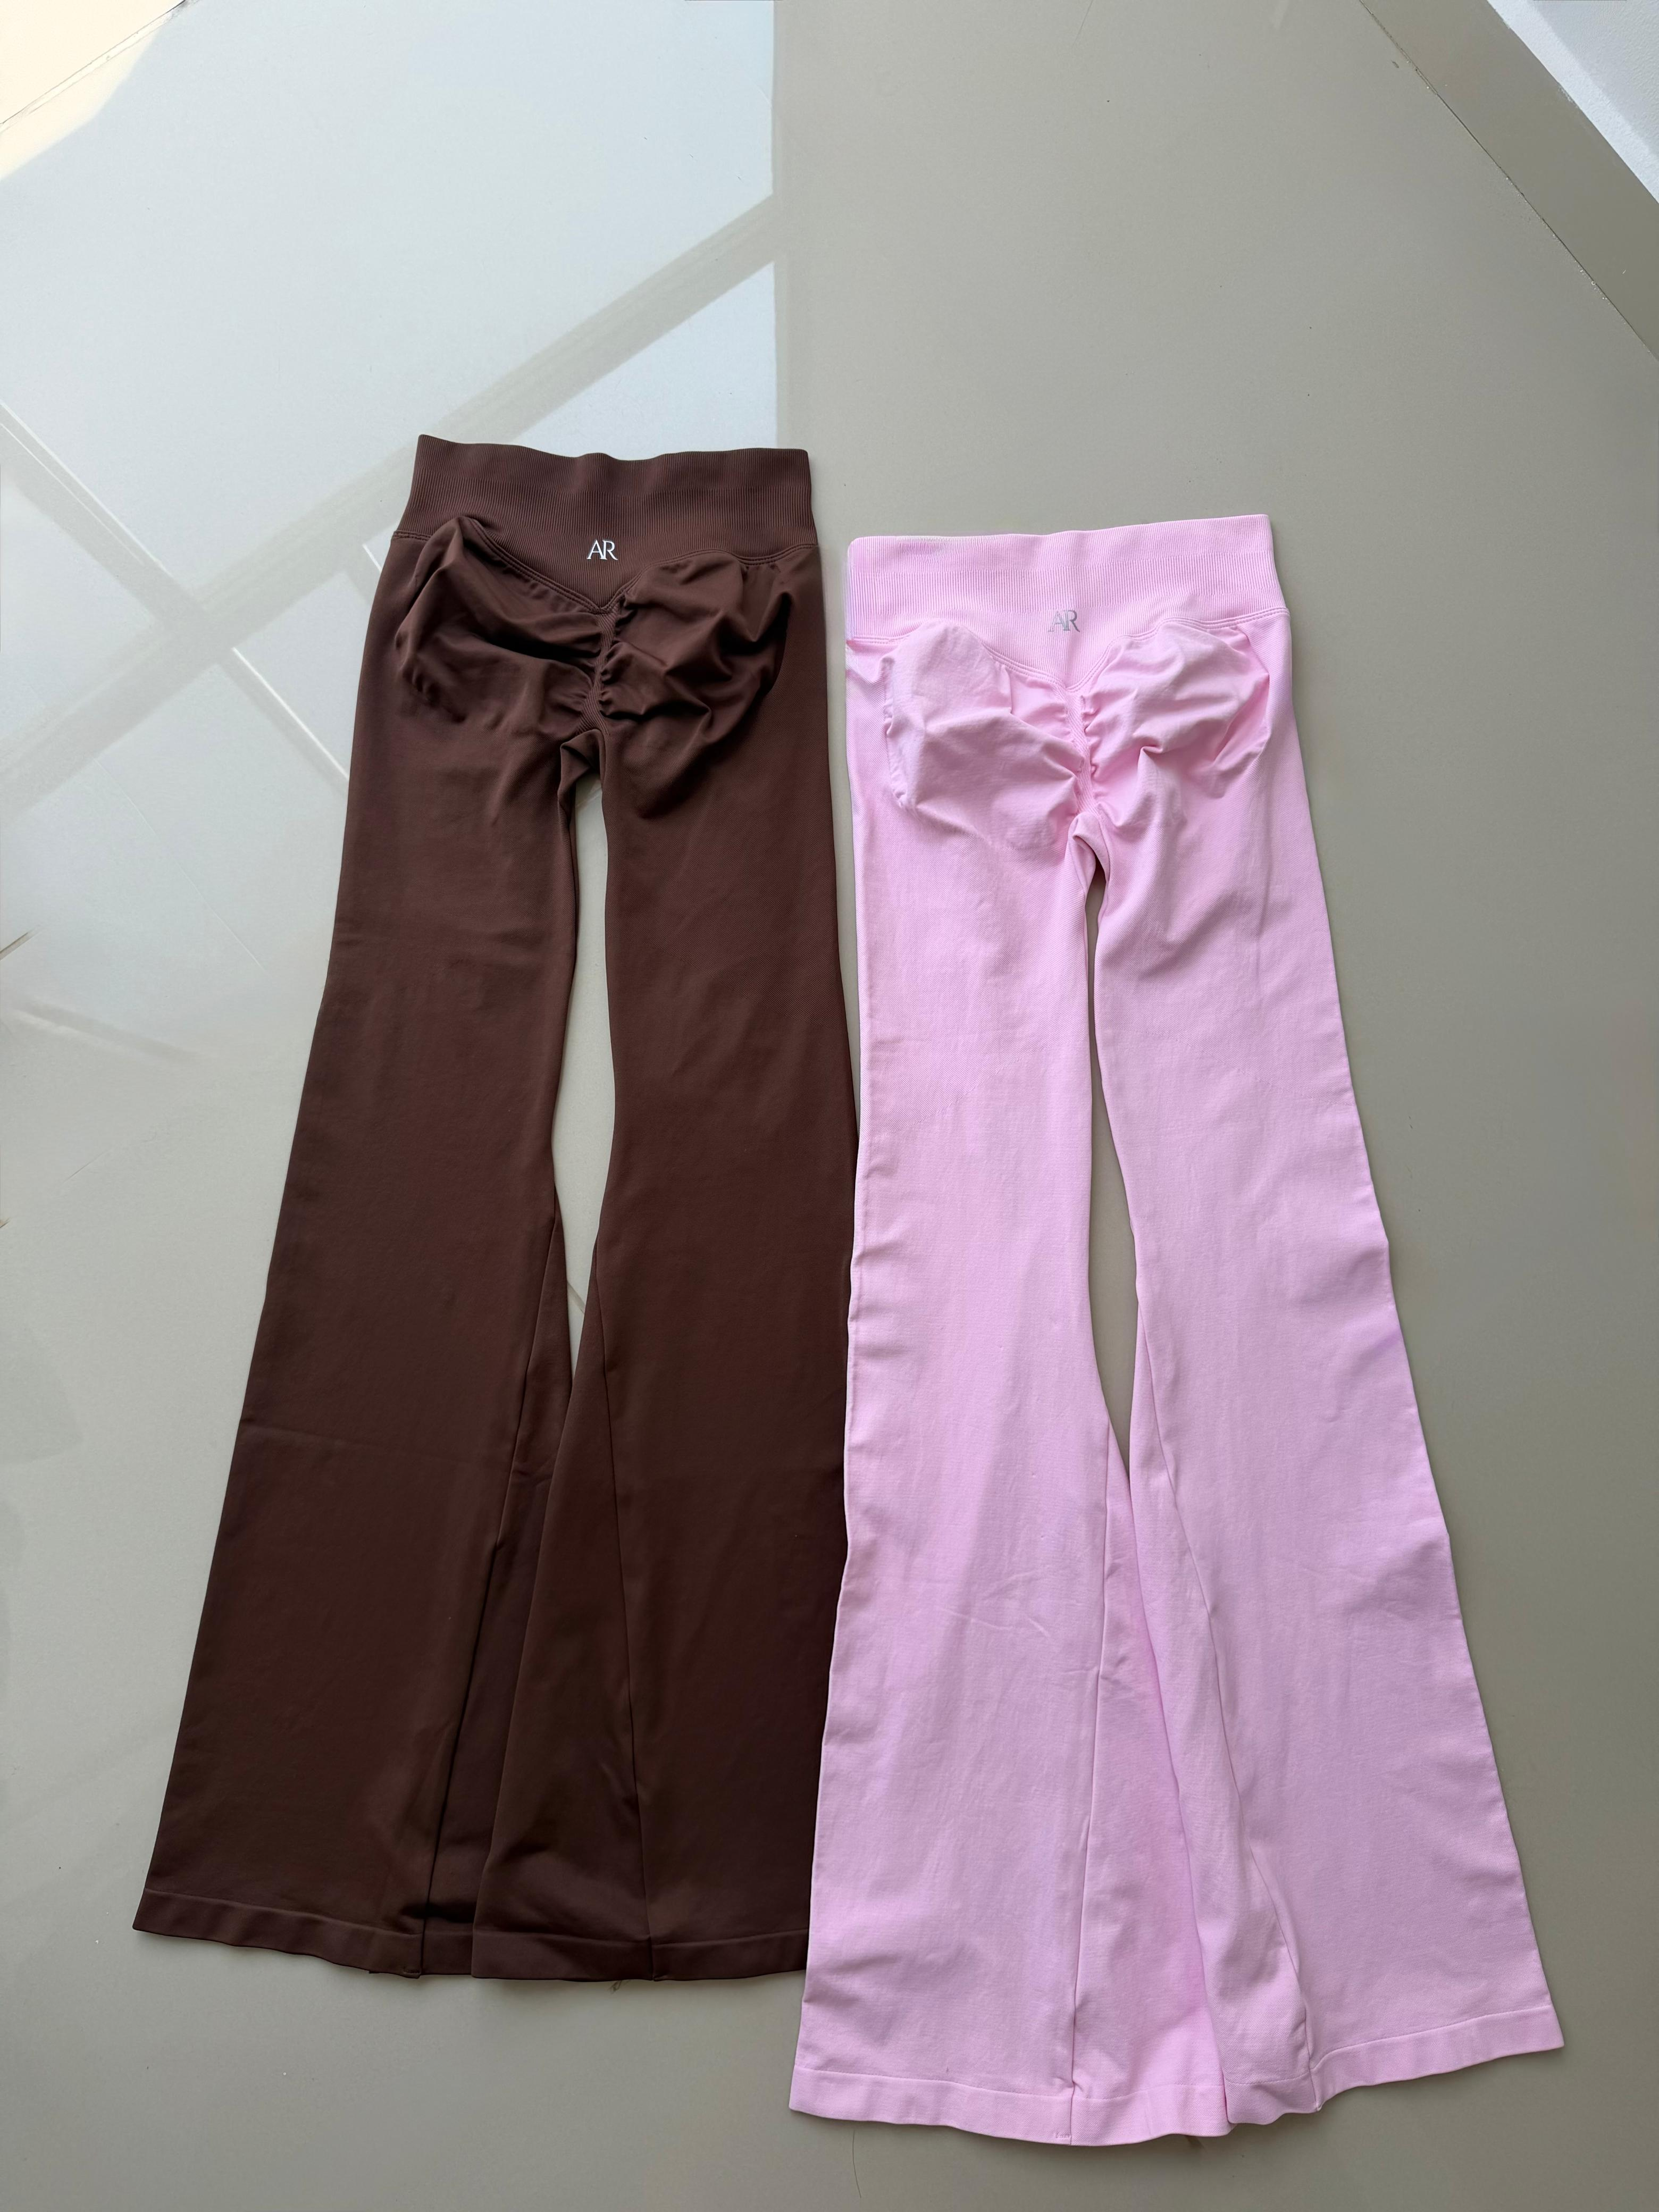
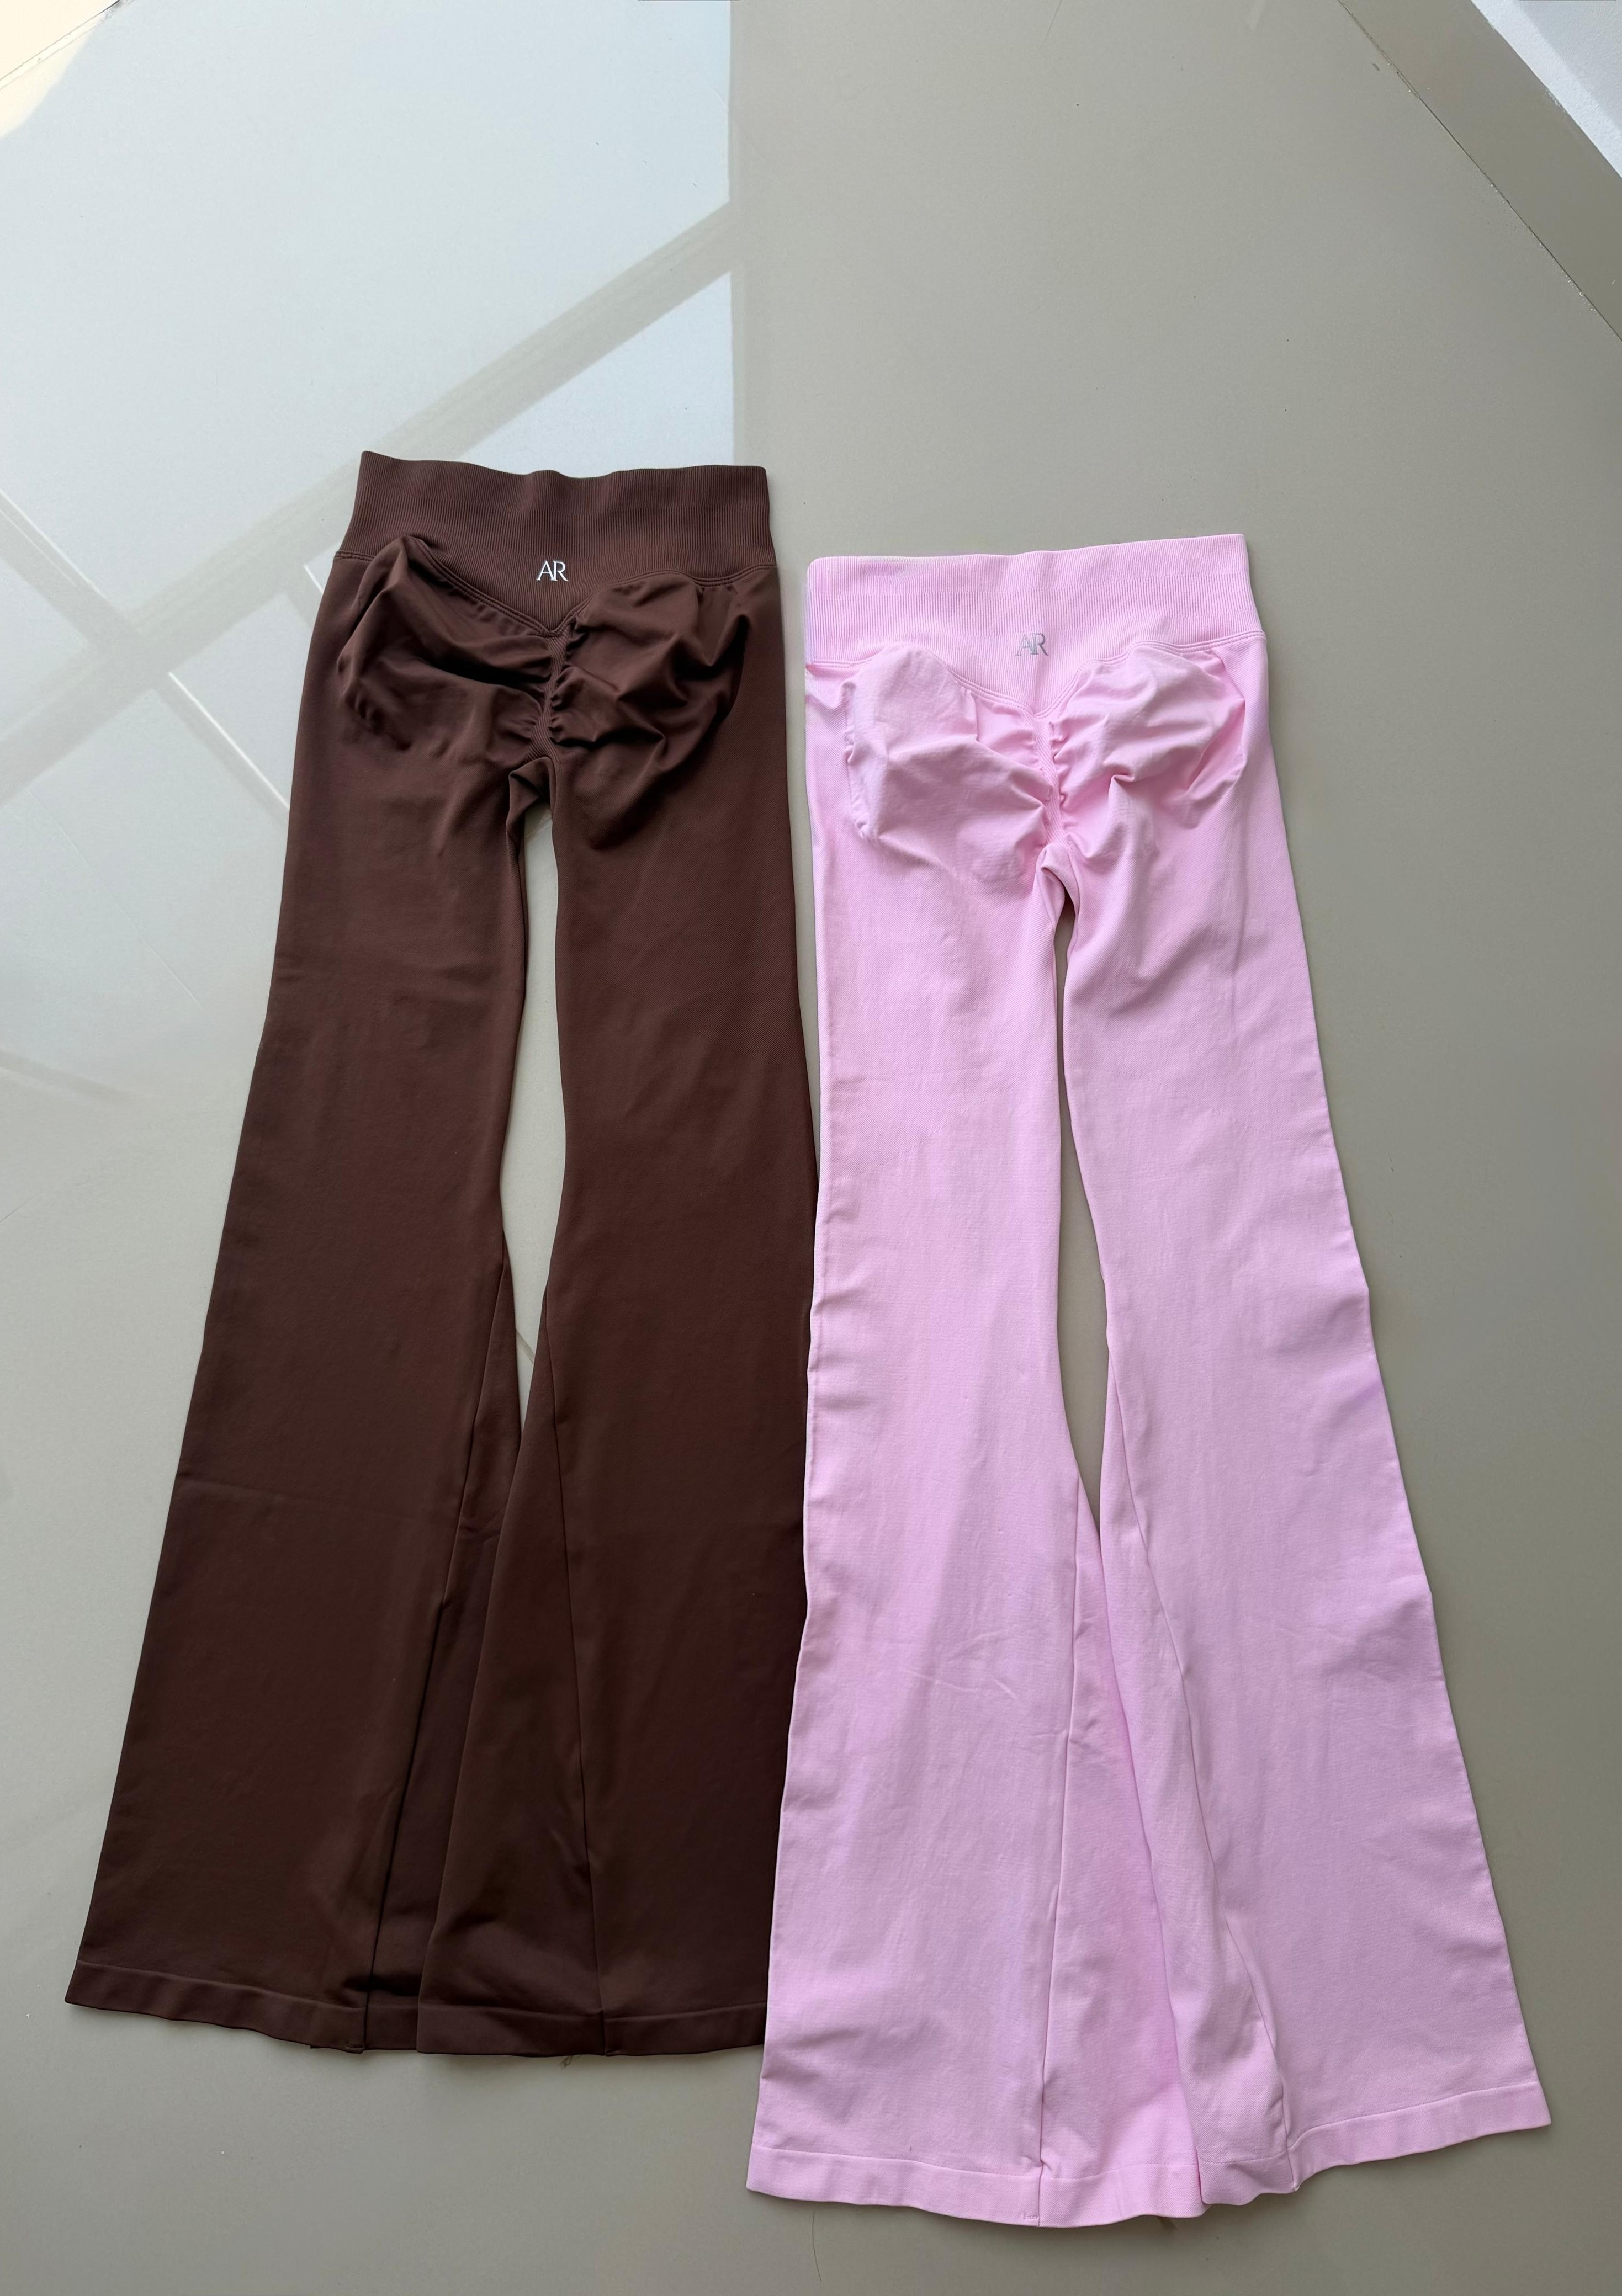
añadimosd pantalon cafe rosado

diff --git a/src/Components/Assets/all_product.js b/src/Components/Assets/all_product.js
@@ -836,8 +836,8 @@ let all_product = [
     name: "PANTALÓN BOTA CAMPANA - TONO CAFÉ-ROSADO",
     category: "sets",
     description: "Material suave y de alta calidad",
-    image: pantaloncaferosado2,
-    image2: pantaloncaferosado1,
+    image: pantaloncaferosado1,
+    image2: pantaloncaferosado2,
     image3: pantaloncaferosado3,
     image4: pantaloncaferosado4,
     new_price: 85000,